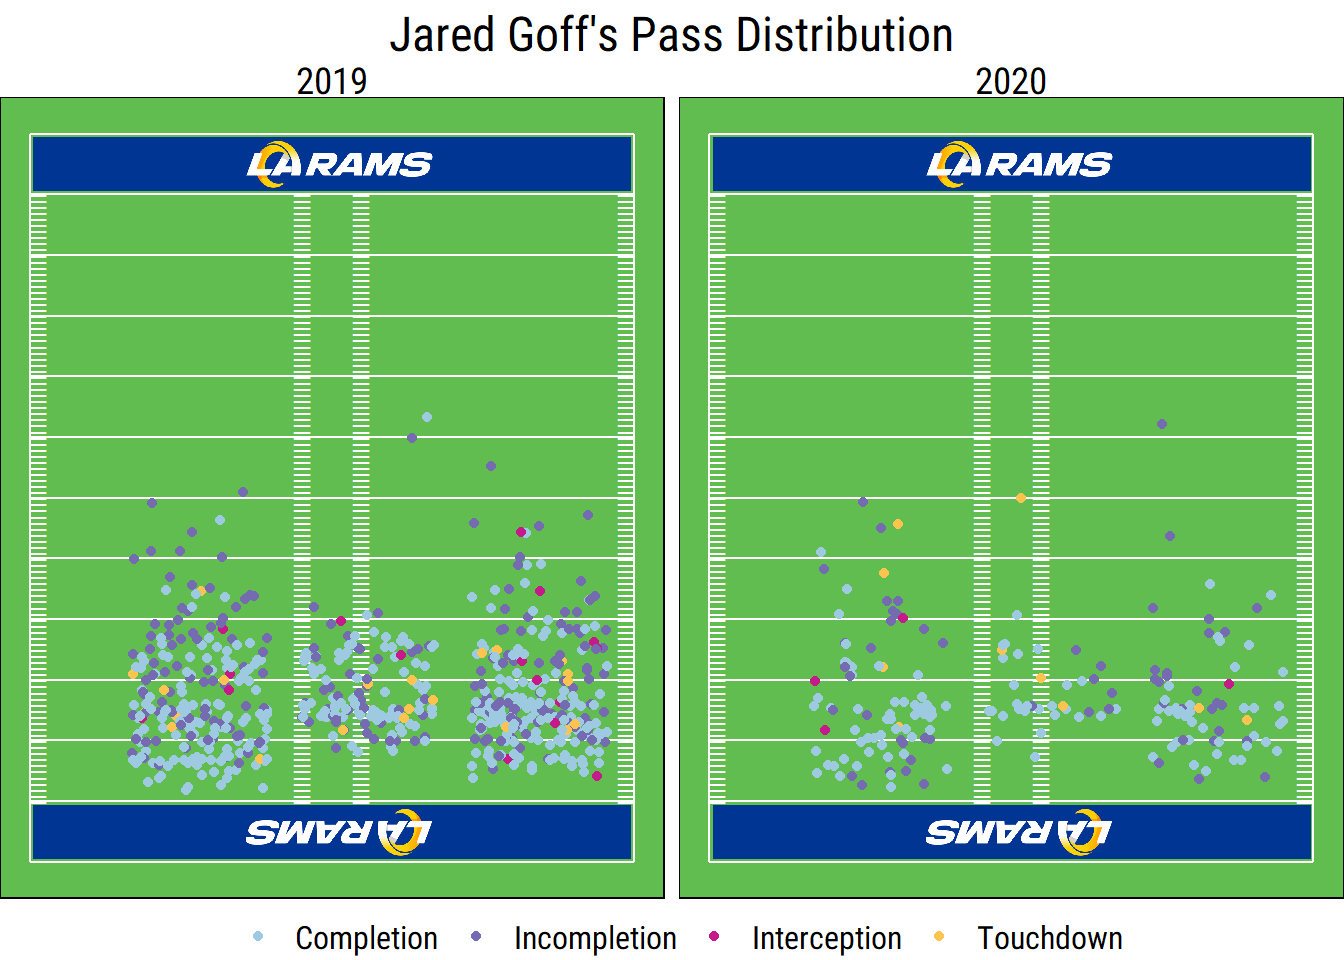
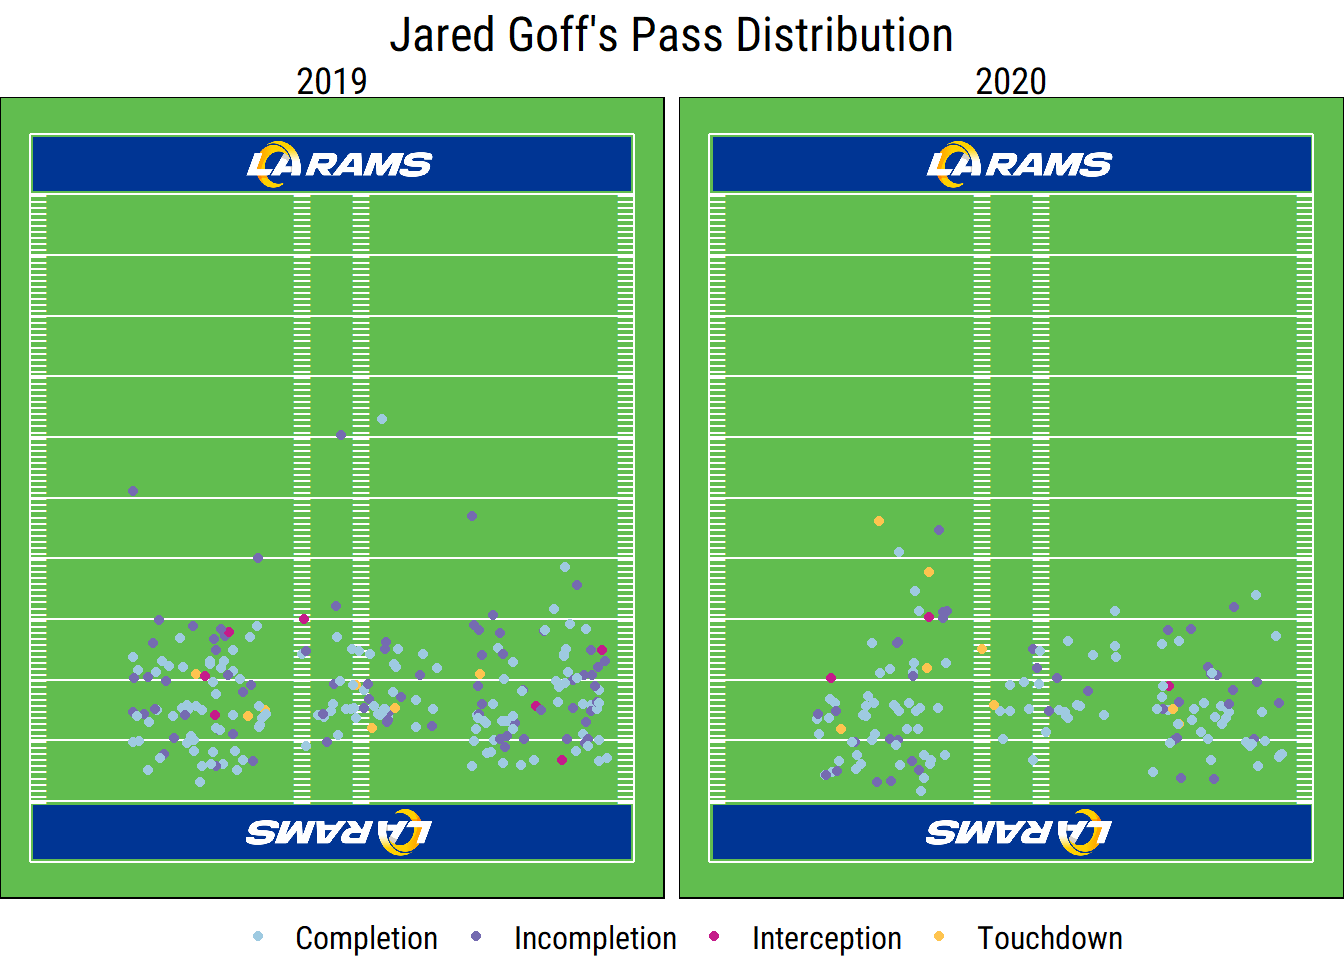
Post 1

diff --git a/content/post/Post1_Goff Passing/index.html b/content/post/Post1_Goff Passing/index.html
@@ -4,7 +4,7 @@ author: "Nate Bean"
 date: 2020-10-23
 categories: ["R", "NFL", "Rams"]
 tags: ["NFL", "Rams", "Goff"]
-summary: "An analysis of Jared's Goff's 2020 success with short passing"
+summary: "An analysis of Jared's Goff's 2020 success with short passing through Week 5"
 authors: [Nate Bean]
 output: 
   html_document:
@@ -44,7 +44,8 @@ passing_pbp &lt;- map_df(career, function(x) {
     paste0(&quot;https://raw.githubusercontent.com/guga31bb/nflfastR-data/master/data/play_by_play_&quot;, x, &quot;.rds&quot;)
   )) %&gt;%
     mutate(year= x)}) %&gt;%
-  filter(play_type==&quot;pass&quot;,
+  filter(week &lt;= 5,
+        play_type==&quot;pass&quot;,
          qb_kneel==&quot;0&quot;,
          qb_spike==&quot;0&quot;)
 
@@ -101,7 +102,7 @@ passing_pbp %&gt;%
       div(style = list(display = &quot;inline-block&quot;, width = &quot;45px&quot;), image),
       value)})))</code></pre>
 <div id="htmlwidget-1" class="reactable html-widget" style="width:auto;height:auto;"></div>
-<script type="application/json" data-for="htmlwidget-1">{"x":{"tag":{"name":"Reactable","attribs":{"data":{"Year":[2016,2017,2018,2019,2020],"Player":["J.Goff","J.Goff","J.Goff","J.Goff","J.Goff"],"Comp %":[54.6,62.1,64.9,62.9,67.4],"TD/Int":[0.7,4,2.7,1.4,2.5],"CPOE":["-5.4 (37)","-3 (22)","0.6 (18)","-3.6 (34)","0.6 (20)"],"QBR":["63.6 (38)","100.5 (6)","101.1 (8)","86.5 (25)","101.4 (11)"],"EPA/Play":["-0.41 (35)","0.15 (8)","0.19 (4)","0.09 (13)","0.22 (8)"]},"columns":[{"accessor":"Year","name":"Year","type":"numeric"},{"accessor":"Player","name":"Player","type":"character","cell":[{"name":"Fragment","attribs":[],"children":[{"name":"div","attribs":{"style":{"display":"inline-block","width":"45px"}},"children":[{"name":"img","attribs":{"src":"images/J.Goff.jpg","height":"24px","alt":"J.Goff"},"children":[]}]},"J.Goff"]},{"name":"Fragment","attribs":[],"children":[{"name":"div","attribs":{"style":{"display":"inline-block","width":"45px"}},"children":[{"name":"img","attribs":{"src":"images/J.Goff.jpg","height":"24px","alt":"J.Goff"},"children":[]}]},"J.Goff"]},{"name":"Fragment","attribs":[],"children":[{"name":"div","attribs":{"style":{"display":"inline-block","width":"45px"}},"children":[{"name":"img","attribs":{"src":"images/J.Goff.jpg","height":"24px","alt":"J.Goff"},"children":[]}]},"J.Goff"]},{"name":"Fragment","attribs":[],"children":[{"name":"div","attribs":{"style":{"display":"inline-block","width":"45px"}},"children":[{"name":"img","attribs":{"src":"images/J.Goff.jpg","height":"24px","alt":"J.Goff"},"children":[]}]},"J.Goff"]},{"name":"Fragment","attribs":[],"children":[{"name":"div","attribs":{"style":{"display":"inline-block","width":"45px"}},"children":[{"name":"img","attribs":{"src":"images/J.Goff.jpg","height":"24px","alt":"J.Goff"},"children":[]}]},"J.Goff"]}]},{"accessor":"Comp %","name":"Comp %","type":"numeric"},{"accessor":"TD/Int","name":"TD/Int","type":"numeric"},{"accessor":"CPOE","name":"CPOE","type":"character"},{"accessor":"QBR","name":"QBR","type":"character"},{"accessor":"EPA/Play","name":"EPA/Play","type":"character"}],"defaultPageSize":10,"paginationType":"numbers","showPageInfo":true,"minRows":1,"highlight":true,"outlined":true,"striped":true,"dataKey":"03aca537b2872b4890cc9bc61be4d3ca","key":"03aca537b2872b4890cc9bc61be4d3ca"},"children":[]},"class":"reactR_markup"},"evals":[],"jsHooks":[]}</script>
+<script type="application/json" data-for="htmlwidget-1">{"x":{"tag":{"name":"Reactable","attribs":{"data":{"Year":[2017,2018,2019,2020],"Player":["J.Goff","J.Goff","J.Goff","J.Goff"],"Comp %":[62.1,64.9,62.9,67.4],"TD/Int":[4,2.7,1.4,2.5],"CPOE":["-3 (22)","0.6 (18)","-3.6 (34)","0.6 (20)"],"QBR":["100.5 (6)","101.1 (8)","86.5 (25)","101.4 (11)"],"EPA/Play":["0.19 (4)","0.44 (1)","0.09 (9)","0.29 (5)"]},"columns":[{"accessor":"Year","name":"Year","type":"numeric"},{"accessor":"Player","name":"Player","type":"character","cell":[{"name":"Fragment","attribs":[],"children":[{"name":"div","attribs":{"style":{"display":"inline-block","width":"45px"}},"children":[{"name":"img","attribs":{"src":"images/J.Goff.jpg","height":"24px","alt":"J.Goff"},"children":[]}]},"J.Goff"]},{"name":"Fragment","attribs":[],"children":[{"name":"div","attribs":{"style":{"display":"inline-block","width":"45px"}},"children":[{"name":"img","attribs":{"src":"images/J.Goff.jpg","height":"24px","alt":"J.Goff"},"children":[]}]},"J.Goff"]},{"name":"Fragment","attribs":[],"children":[{"name":"div","attribs":{"style":{"display":"inline-block","width":"45px"}},"children":[{"name":"img","attribs":{"src":"images/J.Goff.jpg","height":"24px","alt":"J.Goff"},"children":[]}]},"J.Goff"]},{"name":"Fragment","attribs":[],"children":[{"name":"div","attribs":{"style":{"display":"inline-block","width":"45px"}},"children":[{"name":"img","attribs":{"src":"images/J.Goff.jpg","height":"24px","alt":"J.Goff"},"children":[]}]},"J.Goff"]}]},{"accessor":"Comp %","name":"Comp %","type":"numeric"},{"accessor":"TD/Int","name":"TD/Int","type":"numeric"},{"accessor":"CPOE","name":"CPOE","type":"character"},{"accessor":"QBR","name":"QBR","type":"character"},{"accessor":"EPA/Play","name":"EPA/Play","type":"character"}],"defaultPageSize":10,"paginationType":"numbers","showPageInfo":true,"minRows":1,"highlight":true,"outlined":true,"striped":true,"dataKey":"31bdf88de39082233bc755cb25370e87","key":"31bdf88de39082233bc755cb25370e87"},"children":[]},"class":"reactR_markup"},"evals":[],"jsHooks":[]}</script>
 <p>This data allows us to take a look at some of Goff’s most important stats since entering the league in 2016. All of the data in the table below is originally from NGS, besides average expected points added (EPA) per passing play, which was calculated using play-by-play data. Key stats from NGS include Goff’s completion percentage, touchdown to interception ratio, completion percentage over expected (CPOE), and quarterback rating (QBR).</p>
 <p>2016 was Goff’s worst season across all stats shown, not surprising given his 0-7 record as a starter for a floundering Rams team. While his stats picked up immediately with the arrival of Sean McVay, Goff has so far recorded his best stats in nearly all of the these measures in 2020. The table also shows how Goff ranks among NFL quarterbacks with at least 128 attempts in CPOE, QBR, and EPA/play. He’s never ranked highly in CPOE according to the NGS model, but has fared much better in QBR and EPA/play. In 2020, he ranks 11th in QBR and 5th in EPA/play. His relatively higher ranking in these two measures gives some insight into the reasons for his success. Goff hasn’t performed much above expectations for completed passes, so these stats suggest his success has come from other elements of the scheme, and avoiding turnovers and sacks.</p>
 <pre class="r"><code>#is completion already here somewhere?
@@ -175,7 +176,7 @@ passing_pbp %&gt;%
       div(style = list(display = &quot;inline-block&quot;, width = &quot;45px&quot;), image),
       value)})))</code></pre>
 <div id="htmlwidget-2" class="reactable html-widget" style="width:auto;height:auto;"></div>
-<script type="application/json" data-for="htmlwidget-2">{"x":{"tag":{"name":"Reactable","attribs":{"data":{"Year":[2016,2017,2018,2019,2020],"Player":["J.Goff","J.Goff","J.Goff","J.Goff","J.Goff"],"Completions":[204,475,559,625,190],"Avg. IAY":[6.9,7.9,8.7,7.7,7.3],"AY/C":[4.6,6.1,7,6.1,5.9],"YAC/C":[5.1,6.7,5.8,5.7,6.4],"Yds/C":[9.7,12.8,12.9,11.8,12.3]},"columns":[{"accessor":"Year","name":"Year","type":"numeric"},{"accessor":"Player","name":"Player","type":"character","cell":[{"name":"Fragment","attribs":[],"children":[{"name":"div","attribs":{"style":{"display":"inline-block","width":"45px"}},"children":[{"name":"img","attribs":{"src":"images/J.Goff.jpg","height":"24px","alt":"J.Goff"},"children":[]}]},"J.Goff"]},{"name":"Fragment","attribs":[],"children":[{"name":"div","attribs":{"style":{"display":"inline-block","width":"45px"}},"children":[{"name":"img","attribs":{"src":"images/J.Goff.jpg","height":"24px","alt":"J.Goff"},"children":[]}]},"J.Goff"]},{"name":"Fragment","attribs":[],"children":[{"name":"div","attribs":{"style":{"display":"inline-block","width":"45px"}},"children":[{"name":"img","attribs":{"src":"images/J.Goff.jpg","height":"24px","alt":"J.Goff"},"children":[]}]},"J.Goff"]},{"name":"Fragment","attribs":[],"children":[{"name":"div","attribs":{"style":{"display":"inline-block","width":"45px"}},"children":[{"name":"img","attribs":{"src":"images/J.Goff.jpg","height":"24px","alt":"J.Goff"},"children":[]}]},"J.Goff"]},{"name":"Fragment","attribs":[],"children":[{"name":"div","attribs":{"style":{"display":"inline-block","width":"45px"}},"children":[{"name":"img","attribs":{"src":"images/J.Goff.jpg","height":"24px","alt":"J.Goff"},"children":[]}]},"J.Goff"]}]},{"accessor":"Completions","name":"Completions","type":"numeric"},{"accessor":"Avg. IAY","name":"Avg. IAY","type":"numeric"},{"accessor":"AY/C","name":"AY/C","type":"numeric"},{"accessor":"YAC/C","name":"YAC/C","type":"numeric"},{"accessor":"Yds/C","name":"Yds/C","type":"numeric"}],"defaultPageSize":10,"paginationType":"numbers","showPageInfo":true,"minRows":1,"highlight":true,"outlined":true,"striped":true,"dataKey":"78c61b391c109389f9486bda4bac4385","key":"78c61b391c109389f9486bda4bac4385"},"children":[]},"class":"reactR_markup"},"evals":[],"jsHooks":[]}</script>
+<script type="application/json" data-for="htmlwidget-2">{"x":{"tag":{"name":"Reactable","attribs":{"data":{"Year":[2017,2018,2019,2020],"Player":["J.Goff","J.Goff","J.Goff","J.Goff"],"Completions":[163,166,222,152],"Avg. IAY":[8.6,8.4,7.9,6.2],"AY/C":[7,7.3,6.5,5.6],"YAC/C":[6.7,7.1,5.3,7],"Yds/C":[13.6,14.4,11.8,12.6]},"columns":[{"accessor":"Year","name":"Year","type":"numeric"},{"accessor":"Player","name":"Player","type":"character","cell":[{"name":"Fragment","attribs":[],"children":[{"name":"div","attribs":{"style":{"display":"inline-block","width":"45px"}},"children":[{"name":"img","attribs":{"src":"images/J.Goff.jpg","height":"24px","alt":"J.Goff"},"children":[]}]},"J.Goff"]},{"name":"Fragment","attribs":[],"children":[{"name":"div","attribs":{"style":{"display":"inline-block","width":"45px"}},"children":[{"name":"img","attribs":{"src":"images/J.Goff.jpg","height":"24px","alt":"J.Goff"},"children":[]}]},"J.Goff"]},{"name":"Fragment","attribs":[],"children":[{"name":"div","attribs":{"style":{"display":"inline-block","width":"45px"}},"children":[{"name":"img","attribs":{"src":"images/J.Goff.jpg","height":"24px","alt":"J.Goff"},"children":[]}]},"J.Goff"]},{"name":"Fragment","attribs":[],"children":[{"name":"div","attribs":{"style":{"display":"inline-block","width":"45px"}},"children":[{"name":"img","attribs":{"src":"images/J.Goff.jpg","height":"24px","alt":"J.Goff"},"children":[]}]},"J.Goff"]}]},{"accessor":"Completions","name":"Completions","type":"numeric"},{"accessor":"Avg. IAY","name":"Avg. IAY","type":"numeric"},{"accessor":"AY/C","name":"AY/C","type":"numeric"},{"accessor":"YAC/C","name":"YAC/C","type":"numeric"},{"accessor":"Yds/C","name":"Yds/C","type":"numeric"}],"defaultPageSize":10,"paginationType":"numbers","showPageInfo":true,"minRows":1,"highlight":true,"outlined":true,"striped":true,"dataKey":"255dff98d93582b4df32837037070bd1","key":"255dff98d93582b4df32837037070bd1"},"children":[]},"class":"reactR_markup"},"evals":[],"jsHooks":[]}</script>
 <p>Goff’s average air yards are shown two ways here: his intended air yards, his air yards from all of his passes, and air yards per completion, the number of his completed air yards. The table also shows the Rams YAC per completion and total yards per completion. Goff’s winless 7-game rookie season is an outlier, as all of the averages presented in this table were his lowest. Compared to his average over the previous three season, Goff’s completions about a yard shorter through the air, but are gaining about an extra yard after the catch. The biggest change is in his intended air yards though, which have declined 25% compared to average.</p>
 <p>I also wanted to find if there have been changes to where on the field Goff has been throwing. In addition to pass yardage data, the data scraped through nflfastR also has indicators for whether the pass was thrown to the right, left, or middle. This isn’t as strong as data that more accurately positions passes inside those three zones, but could still be interesting. I had a lot of fun messing around with ggplot2 to create a nice facsimile of a football field below my scatter plot. I based my code of the code provided through Big Data Bowl (cite) and found an <a href="https://www.google.com/imgres?imgurl=https://ramsnewlook.com/wp-content/uploads/2020/03/LA-ltyp.png&amp;imgrefurl=https://ramsnewlook.com/&amp;tbnid=SY-ryDGAlFhGnM&amp;vet=1&amp;docid=CmxMc3tBJ9cbiM&amp;w=2000&amp;h=438&amp;source=sh/x/im">image</a> via Google images to serve as the base for the endzone I created.</p>
 <pre class="r"><code>passes_2020 &lt;- passing_pbp %&gt;%
@@ -264,7 +265,7 @@ Again, it should be noted that while the vertical distance is accurate the horiz
 rb_passes &lt;- goff_passing %&gt;%
   filter(receiver_jersey_number &gt;= 20 &amp; receiver_jersey_number &lt;50)
 
-rb_summary &lt;- rb_passes %&gt;%
+rb_passes %&gt;%
   rename(Player=receiver_player_name) %&gt;%
   mutate(Player= ifelse(year &lt; 2020 &amp; Player != &quot;T.Gurley&quot;, &quot;Others&quot;,Player),
          weeks= ifelse(year==2020, 5, 16)) %&gt;%
@@ -290,7 +291,9 @@ rb_summary &lt;- rb_passes %&gt;%
       tagList(
       div(style = list(display = &quot;inline-block&quot;, width = &quot;45px&quot;), image),value)},
     minWidth= 120)))</code></pre>
-<p>The table above shows some of the key stats for relievers out of the backfield during the McVay era. Until his departure, Gurley commanded the lion’s share of attention from Goff. Post-Gurley, catches out of the backfield have been split between Henderson and Brown, with Cam Akers being sidelined for most of the season with dislocated rib cartilage (he did have one catch, but is dropped in the table).</p>
+<p><div id="htmlwidget-3" class="reactable html-widget" style="width:auto;height:auto;"></div>
+<script type="application/json" data-for="htmlwidget-3">{"x":{"tag":{"name":"Reactable","attribs":{"data":{"year":[2017,2017,2018,2018,2019,2019,2020,2020],"Player":["T.Gurley","Others","T.Gurley","Others","T.Gurley","Others","M.Brown","D.Henderson"],"Rec":[23,4,20,3,14,2,9,7],"Yds/Rec":[10.5,9.8,11.5,6.7,4.9,5,4.9,13.1],"Target %":[4.1,0.6,3.5,0.7,3.1,0.4,2,1.6],"TDs":[3,0,2,0,0,0,0,1],"Success":[41,75,52,60,32,33,29,55]},"columns":[{"accessor":"year","name":"Year","type":"numeric"},{"accessor":"Player","name":"Player","type":"character","cell":[{"name":"Fragment","attribs":[],"children":[{"name":"div","attribs":{"style":{"display":"inline-block","width":"45px"}},"children":[{"name":"img","attribs":{"src":"images/T.Gurley.jpg","height":"24px","alt":"T.Gurley"},"children":[]}]},"T.Gurley"]},{"name":"Fragment","attribs":[],"children":[{"name":"div","attribs":{"style":{"display":"inline-block","width":"45px"}},"children":[{"name":"img","attribs":{"src":"images/Others.jpg","height":"24px","alt":"Others"},"children":[]}]},"Others"]},{"name":"Fragment","attribs":[],"children":[{"name":"div","attribs":{"style":{"display":"inline-block","width":"45px"}},"children":[{"name":"img","attribs":{"src":"images/T.Gurley.jpg","height":"24px","alt":"T.Gurley"},"children":[]}]},"T.Gurley"]},{"name":"Fragment","attribs":[],"children":[{"name":"div","attribs":{"style":{"display":"inline-block","width":"45px"}},"children":[{"name":"img","attribs":{"src":"images/Others.jpg","height":"24px","alt":"Others"},"children":[]}]},"Others"]},{"name":"Fragment","attribs":[],"children":[{"name":"div","attribs":{"style":{"display":"inline-block","width":"45px"}},"children":[{"name":"img","attribs":{"src":"images/T.Gurley.jpg","height":"24px","alt":"T.Gurley"},"children":[]}]},"T.Gurley"]},{"name":"Fragment","attribs":[],"children":[{"name":"div","attribs":{"style":{"display":"inline-block","width":"45px"}},"children":[{"name":"img","attribs":{"src":"images/Others.jpg","height":"24px","alt":"Others"},"children":[]}]},"Others"]},{"name":"Fragment","attribs":[],"children":[{"name":"div","attribs":{"style":{"display":"inline-block","width":"45px"}},"children":[{"name":"img","attribs":{"src":"images/M.Brown.jpg","height":"24px","alt":"M.Brown"},"children":[]}]},"M.Brown"]},{"name":"Fragment","attribs":[],"children":[{"name":"div","attribs":{"style":{"display":"inline-block","width":"45px"}},"children":[{"name":"img","attribs":{"src":"images/D.Henderson.jpg","height":"24px","alt":"D.Henderson"},"children":[]}]},"D.Henderson"]}],"minWidth":120},{"accessor":"Rec","name":"Rec","type":"numeric"},{"accessor":"Yds/Rec","name":"Yds/Rec","type":"numeric"},{"accessor":"Target %","name":"Target %","type":"numeric"},{"accessor":"TDs","name":"TDs","type":"numeric"},{"accessor":"Success","name":"Success Rate","type":"numeric","cell":[{"name":"div","attribs":{"style":{"display":"flex","alignItems":"center"}},"children":["41",{"name":"div","attribs":{"style":{"flexGrow":1,"marginLeft":"8px","background":"#e1e1e1"}},"children":[{"name":"div","attribs":{"style":{"background":"#003594","width":"41%","height":"16px"}},"children":[]}]}]},{"name":"div","attribs":{"style":{"display":"flex","alignItems":"center"}},"children":["75",{"name":"div","attribs":{"style":{"flexGrow":1,"marginLeft":"8px","background":"#e1e1e1"}},"children":[{"name":"div","attribs":{"style":{"background":"#003594","width":"75%","height":"16px"}},"children":[]}]}]},{"name":"div","attribs":{"style":{"display":"flex","alignItems":"center"}},"children":["52",{"name":"div","attribs":{"style":{"flexGrow":1,"marginLeft":"8px","background":"#e1e1e1"}},"children":[{"name":"div","attribs":{"style":{"background":"#003594","width":"52%","height":"16px"}},"children":[]}]}]},{"name":"div","attribs":{"style":{"display":"flex","alignItems":"center"}},"children":["60",{"name":"div","attribs":{"style":{"flexGrow":1,"marginLeft":"8px","background":"#e1e1e1"}},"children":[{"name":"div","attribs":{"style":{"background":"#003594","width":"60%","height":"16px"}},"children":[]}]}]},{"name":"div","attribs":{"style":{"display":"flex","alignItems":"center"}},"children":["32",{"name":"div","attribs":{"style":{"flexGrow":1,"marginLeft":"8px","background":"#e1e1e1"}},"children":[{"name":"div","attribs":{"style":{"background":"#003594","width":"32%","height":"16px"}},"children":[]}]}]},{"name":"div","attribs":{"style":{"display":"flex","alignItems":"center"}},"children":["33",{"name":"div","attribs":{"style":{"flexGrow":1,"marginLeft":"8px","background":"#e1e1e1"}},"children":[{"name":"div","attribs":{"style":{"background":"#003594","width":"33%","height":"16px"}},"children":[]}]}]},{"name":"div","attribs":{"style":{"display":"flex","alignItems":"center"}},"children":["29",{"name":"div","attribs":{"style":{"flexGrow":1,"marginLeft":"8px","background":"#e1e1e1"}},"children":[{"name":"div","attribs":{"style":{"background":"#003594","width":"29%","height":"16px"}},"children":[]}]}]},{"name":"div","attribs":{"style":{"display":"flex","alignItems":"center"}},"children":["55",{"name":"div","attribs":{"style":{"flexGrow":1,"marginLeft":"8px","background":"#e1e1e1"}},"children":[{"name":"div","attribs":{"style":{"background":"#003594","width":"55%","height":"16px"}},"children":[]}]}]}],"align":"left"}],"defaultPageSize":10,"paginationType":"numbers","showPageInfo":true,"minRows":1,"highlight":true,"outlined":true,"striped":true,"dataKey":"492cab21e34b3370a17c764ce3517bcc","key":"492cab21e34b3370a17c764ce3517bcc"},"children":[]},"class":"reactR_markup"},"evals":[],"jsHooks":[]}</script>
+The table above shows some of the key stats for relievers out of the backfield during the McVay era. Until his departure, Gurley commanded the lion’s share of attention from Goff. Post-Gurley, catches out of the backfield have been split between Henderson and Brown, with Cam Akers being sidelined for most of the season with dislocated rib cartilage (he did have one catch, but is dropped in the table).</p>
 <p>Of course the Rams running backs have fewer receptions through five games than Gurley did throughout the entirety of previous seasons, but the table also shows that running backs are getting a lower target share from Goff than Gurley during the years he was healthy, when he averaged between 4 and 5 percent of targets. Another key stat here is success rate, defined as the percentage of receptions that result in positive expected points added (EPA). In this case, EPA also takes incompletions to each target into account. The overall production of the 2020 running backs is still too low to meaningfully compare their success with previous years, although a notable finding is that Gurley doesn’t have a significantly higher success rate than other running backs during previous seasons. He did however have greater average yards per catch, possibly suggesting some big plays are driving that average up.</p>
 <p>The lessened role in the passing game may simply be due to the loss of the talented Gurley. Without a player of this caliber, the offense is designed to work through other options now. However, the loss of Gurley doesn’t appear to be the end of the world, as the success rate for passes to Rams running backs in the pass game has generally been lower than their overall average pf 50.2% since 2017.</p>
 <p>Overall, it will be interesting to see how the Rams passing game evolves throughout the season. Will Goff start throwing more deep balls as opposing defenses adjust to the Rams YAC-heavy pass game? Either way, for now Goff and the Rams offense is off the a great start to 2020. If they can maintain their success as divisional play begins this week against the 49ers, they’ll be in a good position to make another post-season run.</p>
